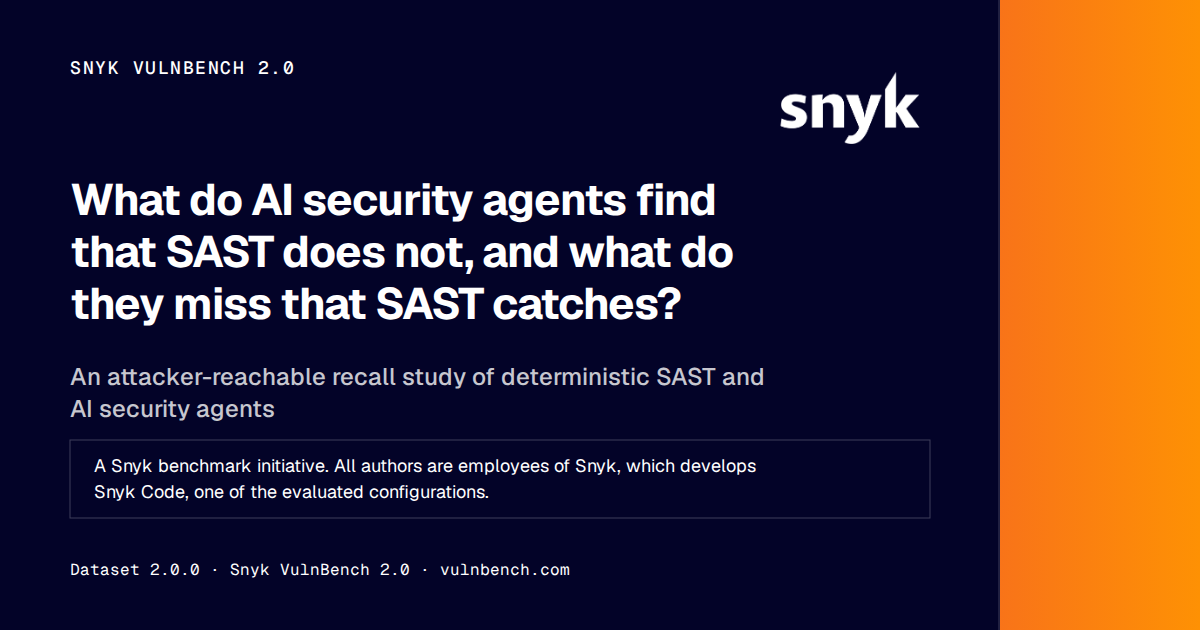
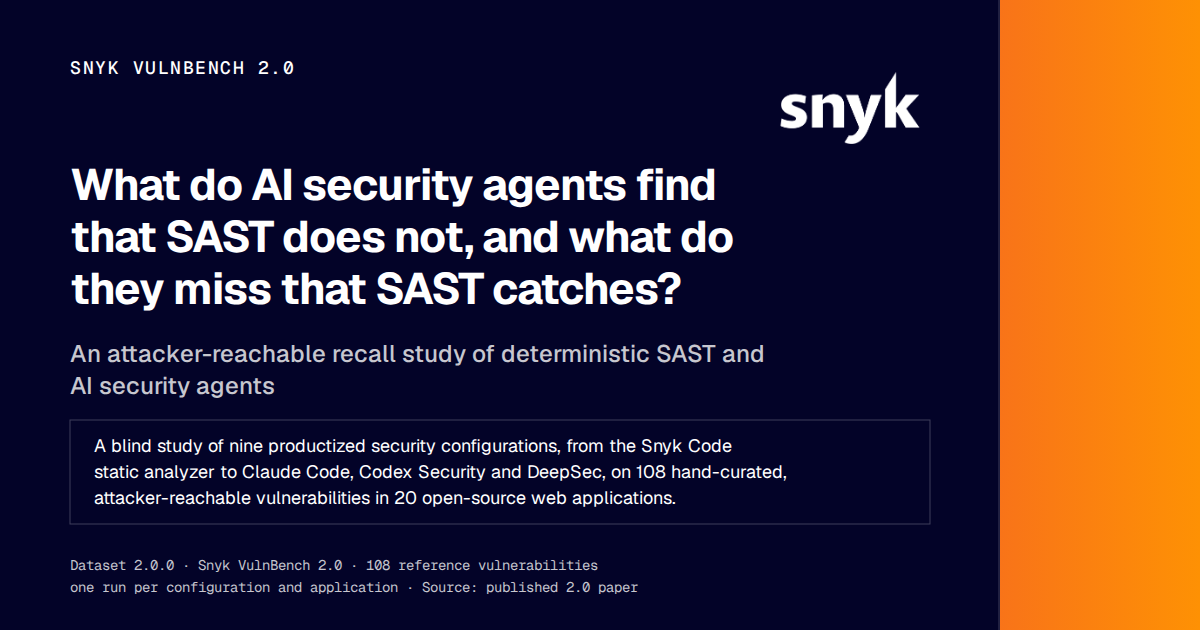
fix: take the 2.0 link-preview card text only from the release card and homepage copy

Changed region(s): [[0.0617, 0.5429, 0.7708, 0.8444], [0.0617, 0.2714, 0.6167, 0.5127], [0.0617, 0.8746, 0.5242, 0.9651]]

diff --git a/src/components/social/share-card.ts b/src/components/social/share-card.ts
@@ -76,13 +76,14 @@ const escapeXml = (value: string) =>
     .replaceAll('"', "&quot;")
     .replaceAll("'", "&apos;");
 
-function wrapText(value: string, maximumCharacters: number) {
-  const words = value.split(/\s+/);
+function wrapText(value: string, maximumCharacters: number, separator?: string) {
+  const words = separator ? value.split(separator) : value.split(/\s+/);
+  const joiner = separator ?? " ";
   const lines: string[] = [];
   let line = "";
 
   for (const word of words) {
-    const candidate = line ? `${line} ${word}` : word;
+    const candidate = line ? `${line}${joiner}${word}` : word;
     if (candidate.length <= maximumCharacters || !line) {
       line = candidate;
     } else {
@@ -100,8 +101,9 @@ function textLines(
   y: number,
   lineHeight: number,
   maximumCharacters: number,
+  separator?: string,
 ) {
-  return wrapText(value, maximumCharacters)
+  return wrapText(value, maximumCharacters, separator)
     .map(
       (line, index) =>
         `<tspan x="${x}" y="${y + index * lineHeight}">${escapeXml(line)}</tspan>`,
@@ -358,26 +360,26 @@ export function renderDefaultSocialCard(
 /* snyk-2026-audit:end */
 
 const release20Card = {
-  eyebrow: "Snyk VulnBench 2.0",
-  title: v20Copy.home.h1,
+  name: v20Copy.releaseCard.name,
+  question: v20Copy.releaseCard.question,
   subtitle: v20Copy.home.subtitle,
-  disclosure: v20Copy.disclosure.short,
-  footer: "Dataset 2.0.0 · Snyk VulnBench 2.0 · vulnbench.com",
+  summary: v20Copy.releaseCard.summary,
+  datasetLine: v20Copy.home.headline_evidence.dataset_line,
 };
 
 function renderClassicRelease20Card() {
   const card = release20Card;
   return `<svg xmlns="http://www.w3.org/2000/svg" width="1200" height="630" viewBox="0 0 1200 630" role="img" aria-labelledby="title description">
-  <title id="title">${escapeXml(card.eyebrow)}</title>
-  <desc id="description">${escapeXml(card.title)}</desc>
+  <title id="title">${escapeXml(card.name)}</title>
+  <desc id="description">${escapeXml(card.question)}</desc>
   <rect width="1200" height="630" fill="#f7f4ed"/>
   <rect x="0" width="28" height="630" fill="#4b2be3"/>
-  <text x="80" y="92" fill="#4b2be3" font-family="monospace" font-size="24" font-weight="700">${escapeXml(card.eyebrow.toUpperCase())}</text>
-  <text fill="#17141f" font-family="Arial, sans-serif" font-size="50" font-weight="700">${textLines(card.title, 80, 175, 60, 40)}</text>
-  <text fill="#55515f" font-family="Arial, sans-serif" font-size="27">${textLines(card.subtitle, 80, 380, 36, 70)}</text>
-  <rect x="80" y="440" width="1040" height="2" fill="#aaa1b0"/>
-  <text fill="#17141f" font-family="Arial, sans-serif" font-size="21">${textLines(card.disclosure, 80, 488, 30, 92)}</text>
-  <text x="80" y="592" fill="#625d68" font-family="monospace" font-size="18">${escapeXml(card.footer)}</text>
+  <text x="80" y="92" fill="#4b2be3" font-family="monospace" font-size="24" font-weight="700">${escapeXml(card.name.toUpperCase())}</text>
+  <text fill="#17141f" font-family="Arial, sans-serif" font-size="50" font-weight="700">${textLines(card.question, 80, 170, 58, 40)}</text>
+  <text fill="#55515f" font-family="Arial, sans-serif" font-size="27">${textLines(card.subtitle, 80, 352, 34, 70)}</text>
+  <rect x="80" y="420" width="1040" height="2" fill="#aaa1b0"/>
+  <text fill="#17141f" font-family="Arial, sans-serif" font-size="21">${textLines(card.summary, 80, 462, 29, 92)}</text>
+  <text fill="#625d68" font-family="monospace" font-size="16">${textLines(card.datasetLine, 80, 576, 24, 104, " · ")}</text>
 </svg>`;
 }
 
@@ -385,15 +387,15 @@ function renderClassicRelease20Card() {
 function renderBrandedRelease20Card(assets: BrandSocialAssets) {
   const card = release20Card;
   return `<svg xmlns="http://www.w3.org/2000/svg" width="1200" height="630" viewBox="0 0 1200 630" role="img" aria-labelledby="title description">
-  <title id="title">${escapeXml(card.eyebrow)}</title>
-  <desc id="description">${escapeXml(card.title)}</desc>
+  <title id="title">${escapeXml(card.name)}</title>
+  <desc id="description">${escapeXml(card.question)}</desc>
   ${brandCanvas(assets)}
-  <text x="70" y="74" fill="#FFFFFF" font-family="Geist Mono" font-size="18" font-weight="500" letter-spacing="1.5">${escapeXml(card.eyebrow.toUpperCase())}</text>
-  <text fill="#FFFFFF" font-family="Geist" font-size="44" font-weight="700" letter-spacing="-1">${textLines(card.title, 70, 215, 52, 34)}</text>
-  <text fill="#FFFFFF" fill-opacity="0.78" font-family="Geist" font-size="24" font-weight="500">${textLines(card.subtitle, 70, 385, 32, 62)}</text>
-  <rect x="70" y="440" width="860" height="78" fill="#030328" stroke="#FFFFFF" stroke-opacity="0.24"/>
-  <text fill="#FFFFFF" font-family="Geist" font-size="18">${textLines(card.disclosure, 94, 472, 26, 82)}</text>
-  <text x="70" y="575" fill="#FFFFFF" font-family="Geist Mono" font-size="16">${escapeXml(card.footer)}</text>
+  <text x="70" y="74" fill="#FFFFFF" font-family="Geist Mono" font-size="18" font-weight="500" letter-spacing="1.5">${escapeXml(card.name.toUpperCase())}</text>
+  <text fill="#FFFFFF" font-family="Geist" font-size="44" font-weight="700" letter-spacing="-1">${textLines(card.question, 70, 200, 52, 34)}</text>
+  <text fill="#FFFFFF" fill-opacity="0.78" font-family="Geist" font-size="24" font-weight="500">${textLines(card.subtitle, 70, 362, 32, 62)}</text>
+  <rect x="70" y="420" width="860" height="104" fill="#030328" stroke="#FFFFFF" stroke-opacity="0.24"/>
+  <text fill="#FFFFFF" font-family="Geist" font-size="18">${textLines(card.summary, 94, 452, 26, 82)}</text>
+  <text fill="#FFFFFF" fill-opacity="0.78" font-family="Geist Mono" font-size="14">${textLines(card.datasetLine, 70, 570, 22, 98, " · ")}</text>
 </svg>`;
 }
 

diff --git a/src/components/social/release-2.0-social-card.test.ts b/src/components/social/release-2.0-social-card.test.ts
@@ -1,5 +1,6 @@
 import { describe, expect, it } from "vitest";
-import { v20Copy } from "../../data/releases/2.0-content";
+import releaseCardJson from "../../data/releases/content/2.0/copy/release-card.json";
+import homeJson from "../../data/releases/content/2.0/copy/home.json";
 import { renderRelease20SocialCard } from "./share-card";
 
 const assets = {
@@ -8,29 +9,56 @@ const assets = {
   wordmarkUrl: "/brand/snyk-2026/logo-snyk-white.png",
 };
 
+const strings = (value: unknown): string[] =>
+  typeof value === "string"
+    ? [value]
+    : Array.isArray(value)
+      ? value.flatMap(strings)
+      : value && typeof value === "object"
+        ? Object.values(value).flatMap(strings)
+        : [];
+const cardCopy = strings([releaseCardJson, homeJson]);
+
+const unescape = (value: string) =>
+  value
+    .replaceAll("&apos;", "'")
+    .replaceAll("&quot;", '"')
+    .replaceAll("&lt;", "<")
+    .replaceAll("&gt;", ">")
+    .replaceAll("&amp;", "&");
+
+const visibleLines = (svg: string) =>
+  [...svg.replace(/<defs>[\s\S]*?<\/defs>/gu, "").matchAll(/>([^<>]+)</gu)]
+    .map(([, text]) => unescape(text ?? "").trim())
+    .filter(Boolean);
+
 describe("Snyk VulnBench 2.0 social card", () => {
   for (const options of [
     { designTheme: "classic" as const },
     { designTheme: "snyk-2026" as const, assets },
   ]) {
-    it(`uses only reviewed 2.0 copy in the ${options.designTheme} design`, () => {
+    it(`takes every line of text from the release card and homepage copy in the ${options.designTheme} design`, () => {
       const svg = renderRelease20SocialCard(options);
-      const visibleText = svg
-        .replace(/<style>[\s\S]*?<\/style>/gu, "")
-        .replace(/<[^>]+>/gu, " ")
-        .replace(/\s+/gu, " ")
-        .replaceAll("&apos;", "'");
+      const lines = visibleLines(svg);
 
-      expect(svg).toContain("<title id=\"title\">Snyk VulnBench 2.0</title>");
-      for (const word of v20Copy.home.h1.split(" ")) {
-        expect(visibleText).toContain(word);
+      expect(svg).toContain(`<title id="title">${releaseCardJson.name}</title>`);
+      for (const line of lines) {
+        expect(
+          cardCopy.some((copy) => copy.toLowerCase().includes(line.toLowerCase())),
+          line,
+        ).toBe(true);
       }
-      expect(visibleText).toContain(v20Copy.home.subtitle);
-      expect(visibleText.replace(/\s+/gu, " ")).toContain(
-        v20Copy.disclosure.short.split(". ")[1]?.split(" ").slice(0, 4).join(" "),
-      );
-      expect(visibleText).toContain("Dataset 2.0.0 · Snyk VulnBench 2.0 · vulnbench.com");
-      expect(visibleText).not.toMatch(/JS 1\.0|\d+(?:\.\d+)?%/u);
+      const text = lines.join(" ");
+      expect(text).toContain(releaseCardJson.name.toUpperCase());
+      for (const copy of [
+        releaseCardJson.question,
+        homeJson.subtitle,
+        releaseCardJson.summary,
+        homeJson.headline_evidence.dataset_line,
+      ]) {
+        for (const word of copy.split(" ")) expect(text, copy).toContain(word);
+      }
+      expect(text).not.toMatch(/JS 1\.0|vulnbench\.com|\d+(?:\.\d+)?%/u);
     });
   }
 });

diff --git a/public/brand/snyk-2026/PROVENANCE.md b/public/brand/snyk-2026/PROVENANCE.md
@@ -32,4 +32,4 @@ be edited or recompressed.
 - Regenerate: serve a Snyk 2026 build with `npm run build && npm run preview`, then
   run `node scripts/rasterise-social-card.mjs <preview-origin>/social/2.0/release.svg public/brand/snyk-2026/social-2.0.png`
 - Dimensions: 1200 × 630 pixels
[2 lines of base64/hex data omitted]
